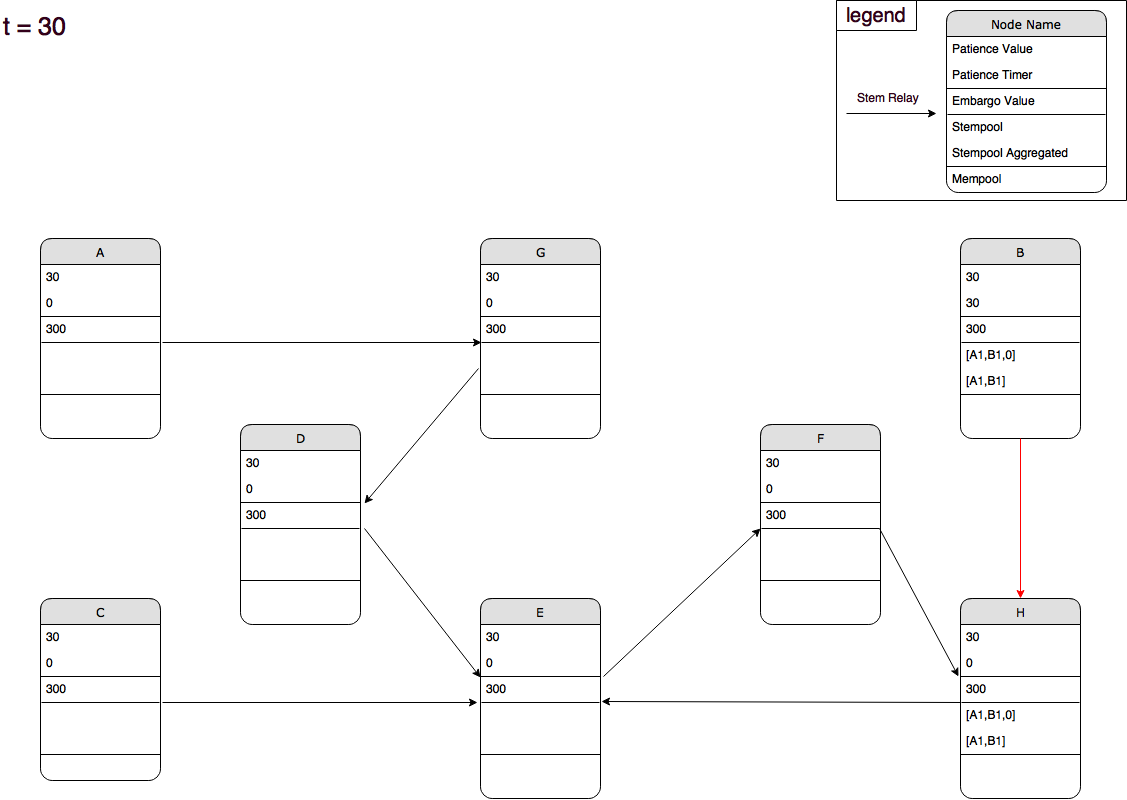
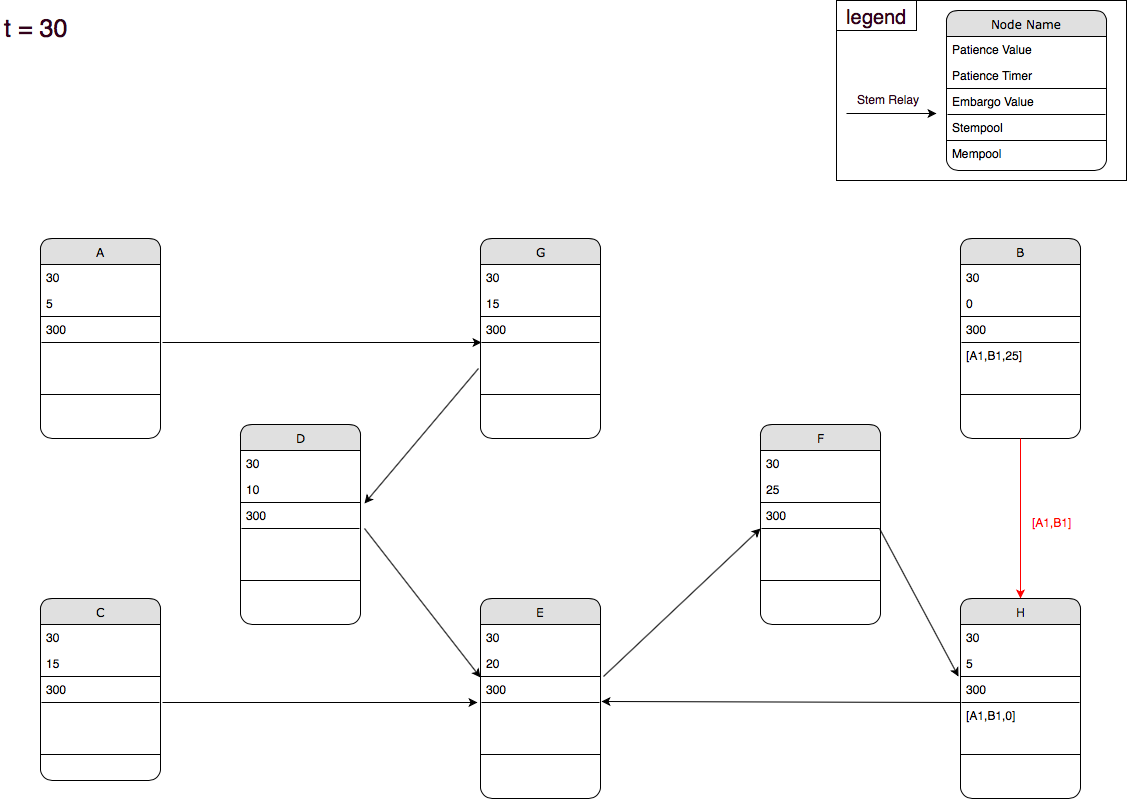
Update Dandelion  simulation

diff --git a/doc/dandelion/simulation.md b/doc/dandelion/simulation.md
@@ -6,15 +6,16 @@ In this scenario, we simulate a successfull aggregation but a failed transaction
 
 This document also helps visualizing all the timers in a simple way.
 
-## Initial Situation
-
-![Initial situation](images/ti.png)
-
-## T = 0
-
-A sends grins to B. B adds the transaction to its stempool and starts its patience timer.
+## T = 0Initial Situation
 
 ![t = 0](images/t0.png)
+
+## T = 5
+
+A sends grins to B. 
+B flips a coin and decides to add it to its stempool and starts the embargo timer for this transaction.
+
+![t = 5](images/t5.png)
 
 ## T = 10
 
@@ -24,70 +25,64 @@ B waits until he runs out of patience.
 
 ## T = 30
 
-B runs out of patience, flips a coin, broadcasts the transaction to its stem relay and starts the embargo timer for this transaction.
+B runs out of patience and broadcasts the aggregated stem transaction to its Dandelion relay H.
+H receives the stem transaction, flips a coin and decides to add it to its stempool and starts the embargo timer for this transaction.
 
 ![t = 30](images/t30.png)
-
-## T = 35
-
-B and H wait.
-
-![t = 35](images/t35.png)
 
 ## T = 40
 
 G sends grins to E.
-E adds the transaction to its stempool and starts its patience timer.
+E flips a coin and decides to add it to its stempool and starts the embargo timer for this transaction.
+B and H wait.
 
 ![t = 40](images/t40.png)
-
-## T = 50
-
-B, H and E wait.
-
-![t = 50](images/t50.png)
 
 ## T = 55
 
 B spends B1 to D.
-D adds the transaction to its stempool and starts its patience timer.
+D flips a coin and decides to add it to its stempool and starts the embargo timer for this transaction.
+H runs out of patience broadcasts the aggregated stem transaction to its Dandelion relay E.
+E receives the stem transaction, flips a coin and decides to add it to its stempool and starts the embargo timer for this transaction.
 
 ![t = 55](images/t55.png)
 
-## T = 60
-
-H runs out of patience, flips a coin, broadcasts the transaction to its stem relay and starts the embargo timer for this transaction.
-
-![t = 60](images/t60.png)
-
 ## T = 65
 
-Waiting.
+Nodes are waiting.
 
 ![t = 65](images/t65.png)
 
 ## T = 70
 
-E runs out of patience, flips a coin, broadcasts the aggregated transaction to its stem relay and starts the embargo timer for this transaction.
+E runs out of patience broadcasts the aggregated stem transaction to its Dandelion relay F.
+F receives the stem transaction, flips a coin and decides to add it to its stempool and starts the embargo timer for this transaction.
 
 ![t = 70](images/t70.png)
 
-## T = 75
+## T = 80
 
-Waiting.
+D runs out of patience, broadcasts the aggregated stem transaction to its Dandelion relay.
+E receives the stem transaction, flips a coin and decides to add it to its stempool and starts the embargo timer for this transaction. aggregates them (thus removing duplicate input/output pair B1) and starts its patience timer.
 
-![t = 75](images/t75.png)
+![t = 80](images/t80.png)
 
 ## T = 85
 
-D runs out of patience, flips a coin, broadcasts the aggregated transaction to its stem relay and starts the embargo timer for this transaction.
-E receives the stem transaction, aggregates them (thus removing duplicate input/output pair B1) and starts its patience timer.
+Nodes are waiting.
 
 ![t = 85](images/t85.png)
 
-## T = 100
+## T = 95 - Step 1
 
-F runs out of patience, flips a coin, broadcasts the aggregated transaction to all its peers (fluff in the mempool).
+F runs out of patience, broadcasts the aggregated stem transaction to its Dandelion relay H.
+H receives the transaction, flips a coin and decide to broadcast the transaction to all its peers (fluff in the mempool).
+
+![t = 95_1](images/t95_1.png)
+
+## T = 95 - Step 2
+
+All the nodes add this transaction to their mempool and remove the related transactions from their stempool.
 E receives the transaction in its mempool and reverts the state of its stempool to avoid conflicting transactions.
 
-![t = 100](images/t100.png)
+![t = 95_2](images/t95_2.png)
